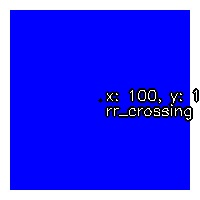
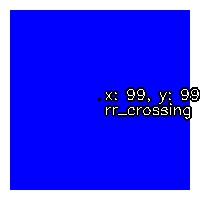
part_3_complete

Changed region(s): [[0.48, 0.42, 1.0, 0.63]]

diff --git a/homework/hw2/hw2.py b/homework/hw2/hw2.py
@@ -155,13 +155,6 @@ def identify_stop_sign(img: np.ndarray) -> tuple:
         avg_x = np.mean(x).astype(int)
         avg_y = np.mean(y).astype(int)
 
-        # # Offsets to fine-tune circle position
-        # offset_x = -1 # Move left
-        # offset_y = 3 # Move down
-        #
-        # avg_x += offset_x
-        # avg_y += offset_y
-
         return avg_x, avg_y, 'stop'
 
     return 0, 0, 'None'
@@ -205,13 +198,6 @@ def identify_yield(img: np.ndarray) -> tuple:
         avg_x = np.mean(x).astype(int)
         avg_y = np.mean(y).astype(int)
 
-        # # Offsets to fine-tune circle position
-        # offset_x = -1 # Move left
-        # offset_y = 3 # Move down
-        #
-        # avg_x += offset_x
-        # avg_y += offset_y
-
         return avg_x, avg_y, 'yield'
 
     return 0, 0, 'None'
@@ -253,14 +239,6 @@ def identify_construction(img: np.ndarray) -> tuple:
     if len(x) > 0 and len(y) > 0:
         avg_x = np.mean(x).astype(int)
         avg_y = np.mean(y).astype(int)
-
-        # # Offsets to fine-tune circle position
-        # offset_x = -1  # Move left
-        # offset_y = 3  # Move down
-        #
-        # # Apply offsets
-        # avg_x += offset_x
-        # avg_y += offset_y
 
         # Return the detected sign center coordinates and label
         return avg_x, avg_y, 'construction'
@@ -305,13 +283,6 @@ def identify_warning(img: np.ndarray) -> tuple:
         avg_x = np.mean(x).astype(int)
         avg_y = np.mean(y).astype(int)
 
-        # # Offsets to fine-tune circle position
-        # offset_x = 1  # Move right
-        # offset_y = 1  # Move down
-        #
-        # avg_x += offset_x
-        # avg_y += offset_y
-
         return avg_x, avg_y, 'rr_crossing'
 
     return 0, 0, 'None'
@@ -352,13 +323,6 @@ def identify_rr_crossing(img: np.ndarray) -> tuple:
     if len(x) > 0 and len(y) > 0:
         avg_x = np.mean(x).astype(int)
         avg_y = np.mean(y).astype(int)
-
-        # # Offsets to fine-tune circle position
-        # offset_x = 11  # Move right
-        # offset_y = -5  # Move up
-        #
-        # avg_x += offset_x
-        # avg_y += offset_y
 
         return avg_x, avg_y, 'rr_crossing'
 
@@ -401,13 +365,6 @@ def identify_services(img: np.ndarray) -> tuple:
         avg_x = np.mean(x).astype(int)
         avg_y = np.mean(y).astype(int)
 
-        # Offsets to fine-tune circle position
-        offset_x = 1  # Move right
-        offset_y = 1  # Move down
-
-        avg_x += offset_x
-        avg_y += offset_y
-
         return avg_x, avg_y, 'rr_crossing'
 
     return 0, 0, 'None'
@@ -422,7 +379,45 @@ def identify_signs(img: np.ndarray) -> np.ndarray:
              [[x, y, 'stop'],
               [x, y, 'construction']]
     """
-    raise NotImplemented
+    # Copy the image
+    img_cp = img.copy()
+
+    # Initialize an empty list to store the detected signs
+    found_signs = []
+
+    # Call sign detection functions
+    x, y, sign_name = identify_construction(img_cp)
+    print(f"Sign detected at ({x}, {y}) with name: {sign_name}")
+    if sign_name != 'None':
+        found_signs.append([x, y, sign_name])
+
+    # Call sign detection functions
+    x, y, sign_name = identify_stop_sign(img_cp)
+    if sign_name != 'None':
+        found_signs.append([x, y, sign_name])
+
+    # Call sign detection functions
+    x, y, sign_name = identify_yield(img_cp)
+    if sign_name != 'None':
+        found_signs.append([x, y, sign_name])
+
+    # Call sign detection functions
+    x, y, sign_name = identify_rr_crossing(img_cp)
+    if sign_name != 'None':
+        found_signs.append([x, y, sign_name])
+
+    # Call sign detection functions
+    x, y, sign_name = identify_services(img_cp)
+    if sign_name != 'None':
+        found_signs.append([x, y, sign_name])
+
+    # Call sign detection functions
+    x, y, sign_name = identify_warning(img_cp)
+    if sign_name != 'None':
+        found_signs.append([x, y, sign_name])
+
+    # Convert the list of detected signs to a numpy array and return
+    return found_signs
 
 
 def identify_signs_noisy(img: np.ndarray) -> np.ndarray:

diff --git a/homework/hw2/wrapper.py b/homework/hw2/wrapper.py
@@ -22,7 +22,7 @@ Then do the normal edge detection, HoughLinesP/HoughCircles.
 def main() -> None:
     part1()
     part2()
-    # part3()
+    part3()
     # part4()
     # part5()
 
